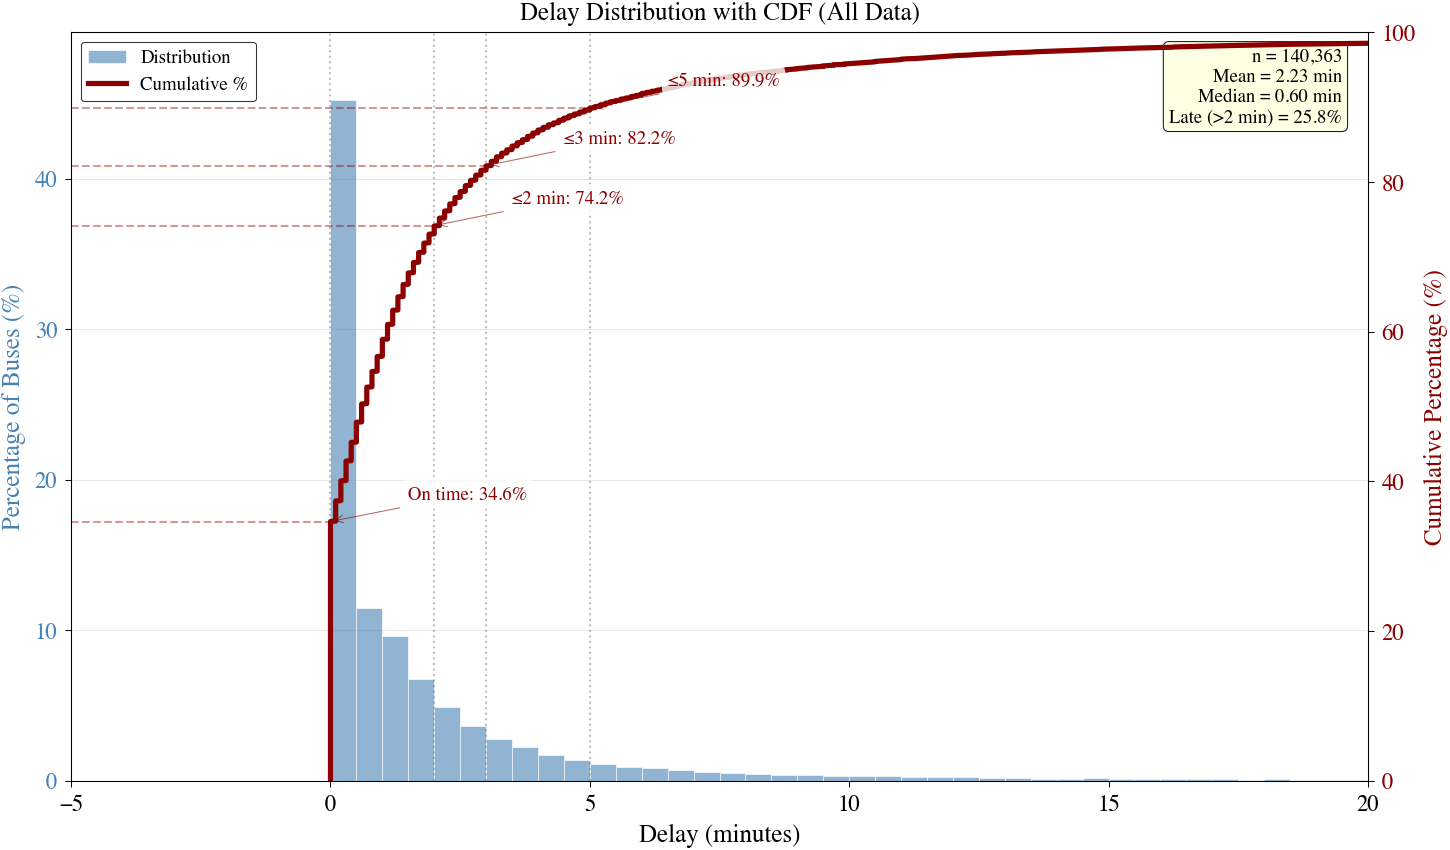
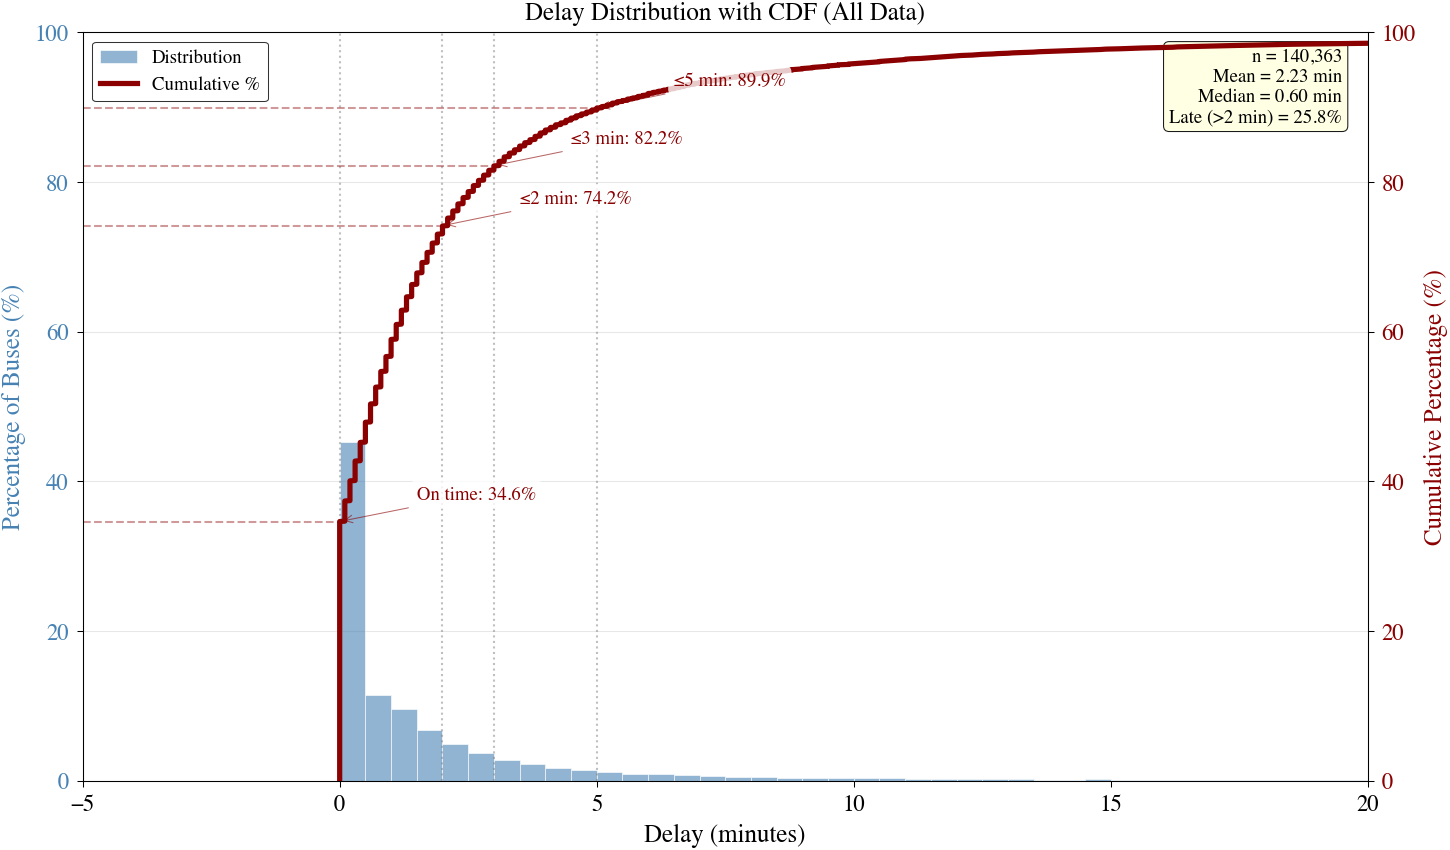
Update CDF+PDF combo plot: both Y-axes 0-100% scale

diff --git a/docs/index.html b/docs/index.html
@@ -462,8 +462,8 @@
             <div class="plot-item">
               <h3>Delay Distribution with CDF</h3>
               <p class="plot-description">
-                Combined histogram (percentage) with CDF overlay. Read directly: "X% of buses have delay ≤ Y minutes". 
-                Key thresholds annotated: on-time (0 min), ≤2 min, ≤3 min, ≤5 min.
+                Blue bars (left axis): % of buses in each delay bin. Red line (right axis): cumulative % up to that delay.
+                Read CDF annotations: "X% of buses have delay ≤ Y minutes".
               </p>
               <img id="plot-cdf-pdf" src="plots/all/delay_cdf_pdf_combo.png" alt="Delay Distribution with CDF" />
             </div>

diff --git a/scripts/fig_cdf_pdf_combo.py b/scripts/fig_cdf_pdf_combo.py
@@ -42,12 +42,15 @@ KEY_THRESHOLDS = [0, 2, 3, 5]  # Minutes to annotate
 
 
 def create_cdf_pdf_combo(delays: np.ndarray, title: str, output_path: Path):
-    """Create combined CDF + PDF plot with percentage readouts."""
+    """Generate combined CDF + PDF plot with percentage readouts.
     
+    Addresses feedback requesting:
+    - Percentage-based visualization instead of absolute counts
+    - CDF overlay for reading "X% have delay ≤ Y min"
+    """
     fig, ax1 = plt.subplots(figsize=(10, 6))
     
     # --- PDF (Histogram as percentage) ---
-    # Use density=False but normalize manually to get percentages
     counts, bins, patches = ax1.hist(
         delays, bins=50, range=DELAY_RANGE, 
         color='steelblue', alpha=0.6, edgecolor='white',
@@ -59,7 +62,7 @@ def create_cdf_pdf_combo(delays: np.ndarray, title: str, output_path: Path):
     for patch, count in zip(patches, counts):
         patch.set_height(count / total * 100)
     
-    ax1.set_ylim(0, max(counts) / total * 100 * 1.1)
+    ax1.set_ylim(0, 100)
     ax1.set_ylabel('Percentage of Buses (%)', color='steelblue')
     ax1.tick_params(axis='y', labelcolor='steelblue')
     
@@ -108,7 +111,6 @@ def create_cdf_pdf_combo(delays: np.ndarray, title: str, output_path: Path):
     ax1.set_xlim(DELAY_RANGE)
     ax1.grid(axis='y', alpha=0.3)
     
-    # Stats box
     stats_text = (
         f'n = {len(delays):,}\n'
         f'Mean = {np.mean(delays):.2f} min\n'

diff --git a/docs_generation/eda_plots.py b/docs_generation/eda_plots.py
@@ -135,7 +135,7 @@ def generate_cdf_pdf_combo_plot(df: pd.DataFrame, period: str, period_label: str
     for patch, count in zip(patches, counts):
         patch.set_height(count / total * 100)
     
-    ax1.set_ylim(0, max(counts) / total * 100 * 1.1)
+    ax1.set_ylim(0, 100)
     ax1.set_ylabel('Percentage of Buses (%)', color='steelblue')
     ax1.tick_params(axis='y', labelcolor='steelblue')
     
